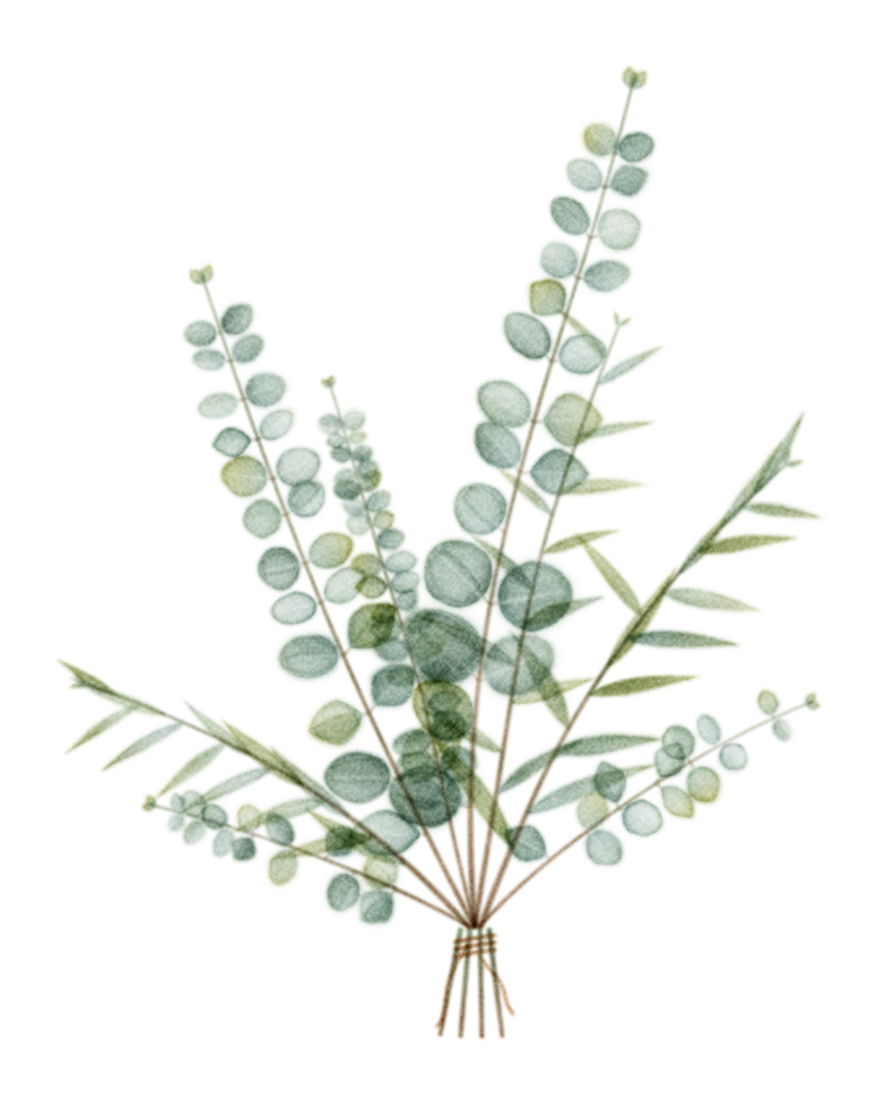
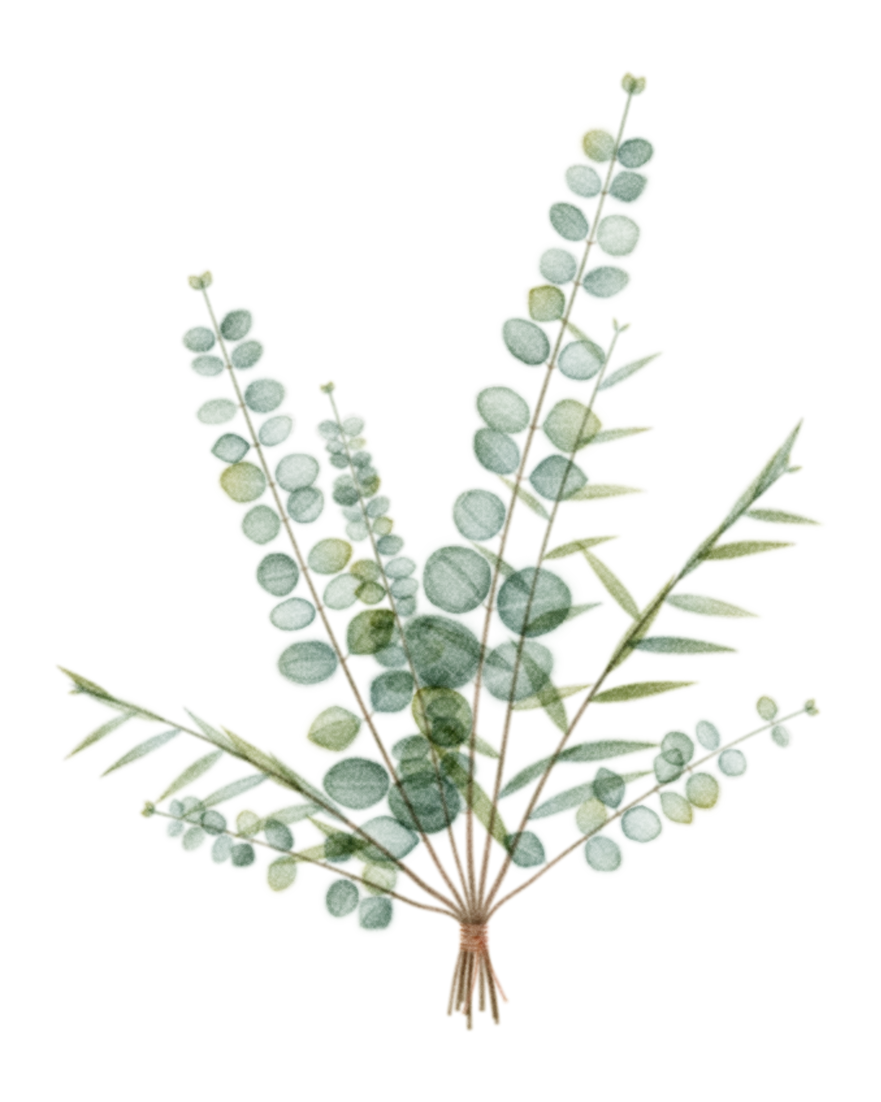
Repaint the bouquet's base as a realistic hand-tied bunch
The stems used to meet at a single point above three thin lines of twine,
with four stubs below. Now every stem passes through a tied waist: six
turns of copper twine with a knot and two loose ends, and below it all
eight stems splay a little to cut ends of their own lengths.

Everything above the tie paints exactly as before: the generator keeps
the branches' random stream unchanged, and the old and new paintings
differ by under 1/255 above the join. The image is now 881x1102, so the
<img> sizes on Home and About (and the portrait-swap note) are updated.

Changed region(s): [[0.0613, 0.0617, 0.9501, 0.9564], [0.0613, 0.6788, 0.0919, 0.7096]]

diff --git a/about.html b/about.html
@@ -62,7 +62,7 @@
         <figure class="portrait">
           <!-- PORTRAIT: this botanical print is a placeholder. To use Tessa's photo, see "Add your portrait" in TESSA-START-HERE.md. -->
           <div class="portrait__frame">
-            <img src="assets/img/botanical-bouquet.webp" alt="" width="883" height="1103" fetchpriority="high">
+            <img src="assets/img/botanical-bouquet.webp" alt="" width="881" height="1102" fetchpriority="high">
           </div>
         </figure>
         <div class="story__body">

diff --git a/index.html b/index.html
@@ -101,7 +101,7 @@
         <figure class="portrait">
           <!-- PORTRAIT: this botanical print is a placeholder. To use Tessa's photo, see "Add your portrait" in TESSA-START-HERE.md. -->
           <div class="portrait__frame">
-            <img src="assets/img/botanical-bouquet.webp" alt="" width="883" height="1103" fetchpriority="high">
+            <img src="assets/img/botanical-bouquet.webp" alt="" width="881" height="1102" fetchpriority="high">
           </div>
         </figure>
       </div>

diff --git a/tools/generate-botanicals.py b/tools/generate-botanicals.py
@@ -360,13 +360,16 @@ class Painter:
 
     def branch(self, start, heading, length, kind="round", curl=0.0, droop=0.0, size=60.0,
                stem_w=(5.0, 1.4), strength=0.55, skip=0.1, pods=0, berries=0, glaze=0.3,
-               pencil=0.0, start_u=None, pairs=None, sag=0.0):
+               pencil=0.0, start_u=None, pairs=None, sag=0.0, root=None):
         """A eucalyptus stem with leaves.
 
         kind: "round" (silver-dollar pairs), "baby" (small round leaves),
         "willow" (alternate narrow leaves) or "seeded" (narrow leaves + seed cups).
         heading: degrees, 0 = right, 90 = down. curl: total degrees of clockwise turn.
         sag: how strongly the stem bends down under its own weight (0-1).
+        root: optional function that takes the stem's path and returns the path
+        to paint instead, e.g. to run the stem down through a tied bundle. It
+        must not use self.rng, so the leaves paint exactly as without it.
         """
         rng = self.rng
         u_ = self.u
@@ -382,7 +385,7 @@ class Painter:
                 a = toward(a, math.pi / 2, sag * 2.2 / n)
             pts.append(pts[-1] + step * np.array([math.cos(a), math.sin(a)], np.float32))
         pts = np.array(pts)
-        self.stem(pts, *stem_w)
+        self.stem(root(pts) if root is not None else pts, *stem_w)
 
         def tangent(i):
             i = min(max(i, 1), len(pts) - 2)
@@ -467,24 +470,67 @@ class Painter:
                       edge=0.6, shade=0.1, vein=0.0, pencil=pencil * 0.6)
         return pts
 
-    def twine(self, center, spread):
-        """Copper twine wrapped around a bundle of stems, with two loose ends."""
+    def twine(self, center, radius, wraps=5, pitch=3.9):
+        """Copper twine wound tightly round a bundle of stems, knotted at the
+        front, with two loose ends. The stems are lifted under each turn first,
+        so the twine reads as lying on top of them."""
         rng = self.rng
-        cx, cy = center
         u = self.u
-        for k in range(3):
-            y = cy + (k - 1) * 7 * u + rng.normal(0, 0.8)
-            wrap = np.array([[cx - spread, y + 3 * u], [cx, y - 1.5 * u], [cx + spread, y - 4 * u]], np.float32)
-            curve = np.array([wrap[0] * (1 - s) ** 2 + 2 * wrap[1] * s * (1 - s) + wrap[2] * s ** 2
-                              for s in np.linspace(0, 1, 24)], np.float32)
-            self.line(curve, 3.0 * u, "copper", 0.75)
-        for direction in (-1, 1):
-            pts = []
-            for s in np.linspace(0, 1, 40):
-                x = cx + direction * (6 + 38 * s) * u + direction * 6 * u * math.sin(s * 5)
-                y = cy + 6 * u + 70 * s * u + 8 * u * math.sin(s * 3.5 + direction)
-                pts.append((x, y))
-            self.line(np.array(pts, np.float32), 2.4 * u, "copper", 0.6)
+        cx, cy = center
+        r, pitch = radius * u, pitch * u
+        top = cy - wraps * pitch / 2
+        xs = np.linspace(-r, r, 28, dtype=np.float32)
+        front = np.sqrt(np.clip(1 - (xs / r) ** 2, 0, 1))
+        turns = []
+        for k in range(wraps):
+            # Seen from slightly above, each turn dips at the front of the
+            # bundle and climbs gently round it, and narrows where it turns away.
+            mid = top + (k + 0.5) * pitch + 0.09 * xs + 1.4 * u * (front - 0.6) + rng.normal(0, 0.25 * u)
+            half = 0.46 * pitch * (0.72 + 0.28 * front)
+            spine = np.stack([cx + xs, mid], 1)
+            outline = np.concatenate([np.stack([cx + xs, mid - half], 1),
+                                      np.stack([cx + xs, mid + half], 1)[::-1]])
+            turns.append((outline, spine))
+
+        for outline, _ in turns:
+            self.lift_under(fill_path, outline, 0.85)
+        for outline, spine in turns:
+            # The lifted line along each turn is its highlight, so it reads as cord.
+            self.wash(outline, (spine[0], spine[-1]), pitch, ("copper", "terracotta"), rng.uniform(0.4, 0.5),
+                      edge=0.9, shade=0.3, vein_line=spine - np.array([0, 0.3 * pitch], np.float32),
+                      vein=0.5, grain=0.5, soften=0.5)
+
+        knot = np.array([cx + 0.3 * r, top + 0.55 * wraps * pitch], np.float32)
+        # Two loose ends: one falls away to the right, clear of the stems; the
+        # other hangs in front of them. Each has frayed fibres at its tip.
+        for reach, fall, sway in ((26, 56, 1.8), (-13, 68, 2.4)):
+            s = np.linspace(0, 1, 40, dtype=np.float32)
+            x = knot[0] + reach * u * (0.7 * s + 0.3 * s ** 2) + sway * u * np.sin(3.2 * s)
+            y = knot[1] + 2 * u + fall * u * s
+            end = np.stack([x, y], 1)
+            self.lift_under(lambda pts: stroke_path(pts, 3.2 * u), end, 0.75)
+            self.stem(end, 3.1, 2.1, pigments=("copper", "terracotta"), strength=0.58)
+            tip, d = end[-1], end[-1] - end[-4]
+            a = math.atan2(d[1], d[0])
+            for spread in (-0.35, 0.05, 0.4):
+                fibre = rng.uniform(3.5, 6) * u
+                self.line(np.stack([tip, tip + fibre * np.array([math.cos(a + spread), math.sin(a + spread)],
+                                                                np.float32)]), 0.7 * u, "copper", 0.4)
+        for dx, dy, rx, ry, rot in ((0, 0, 5.6, 4.3, 0.5), (3.4, 2.9, 4.1, 3.3, -0.4)):
+            c = knot + np.array([dx, dy], np.float32) * u
+            body = self.ellipse(c, rx * u, ry * u, rot)
+            self.lift_under(fill_path, body, 0.7)
+            self.wash(body, (c - [rx * u, 0], c + [rx * u, 0]), 2 * rx * u, ("copper", "terracotta"), 0.62,
+                      edge=1.0, shade=0.35, grain=0.5, soften=0.5)
+
+    def lift_under(self, shape, pts, amount):
+        """Lift pigment under a shape before painting it, so it reads as lying
+        on top. `shape` is fill_path or a stroke_path-like function of points."""
+        pts = np.asarray(pts, np.float32)
+        x0, y0, x1, y1 = self._bounds(pts, 6 * self.u)
+        off = np.array([x0 - self.m, y0 - self.m], np.float32)
+        cover = blur(raster(shape(pts - off), x1 - x0, y1 - y0), 0.6 * self.u)
+        self.D[y0:y1, x0:x1] *= (1 - amount * cover)[..., None]
 
     # -- output ---------------------------------------------------------------
 
@@ -539,27 +585,95 @@ class Painter:
 
 # Compositions -------------------------------------------------------------------
 
+def _bezier(p0, p1, p2, p3, step):
+    n = max(4, int(np.hypot(*(p3 - p0)) / step))
+    s = np.linspace(0, 1, n, dtype=np.float32)[:, None]
+    return (1 - s) ** 3 * p0 + 3 * (1 - s) ** 2 * s * p1 + 3 * (1 - s) * s ** 2 * p2 + s ** 3 * p3
+
+
+def tied_bundle(stems, tie, scale, waist=9.0, band=22.0):
+    """A hand-tied bunch: every stem passes through the tie in its own place.
+
+    Above the twine each stem flares out to its branch; below, it splays a
+    little to a cut end of its own length. Returns (roots, ends): `roots` for
+    Painter.branch(root=...), and the stem ends below the tie as
+    (path, widths) to paint after the branches. The two halves meet under
+    the twine, which hides the join. Uses its own random numbers, so the
+    branches' leaves paint exactly as they would without it.
+    """
+    rng = np.random.default_rng(1011)
+    step = 2.5 * scale
+    order = np.argsort([heading for _, heading, *_ in stems], kind="stable")
+    slots = np.linspace(-waist, waist, len(stems)) * scale
+    neck_y = tie[1] - (0.5 * band - 2) * scale  # just inside the twine's top edge
+    roots, ends = [None] * len(stems), [None] * len(stems)
+    for place, i in enumerate(order):
+        _, heading, length, _, options = stems[i]
+        lean = heading + 90  # degrees from upright; negative leans left
+        x = tie[0] + slots[place]
+        middle = np.array([x, tie[1]], np.float32)
+
+        # Below the tie: nearly straight, bowed a touch outward, cut at its own length.
+        down = math.radians(90 - 0.22 * lean + rng.normal(0, 2.5))
+        sink = np.array([math.cos(down), math.sin(down)], np.float32)
+        cut = middle + rng.uniform(62, 92) * scale * sink
+        outward = np.array([-sink[1], sink[0]], np.float32)
+        if outward[0] * lean < 0:
+            outward = -outward
+        s = np.linspace(0, 1, max(4, int(np.hypot(*(middle - cut)) / step)), dtype=np.float32)[:, None]
+        w0 = options.get("stem_w", (5.0, 1.4))[0]
+        ends[i] = (middle + s * (cut - middle) + 1.5 * scale * np.sin(np.pi * s) * outward, (0.9 * w0, 0.95 * w0))
+
+        # Above the tie: up out of the twine, then curving into the branch below its first leaves.
+        join = 0.8 * options.get("start_u", 0.1) * length * scale
+        roots[i] = _tied_root(middle, np.array([x, neck_y], np.float32), lean, join, step)
+    return roots, ends
+
+
+def _tied_root(middle, neck, lean, join, step):
+    rise = math.radians(-90 + 0.6 * lean)
+    rise = np.array([math.cos(rise), math.sin(rise)], np.float32)
+
+    def root(pts):
+        along = np.concatenate([[0], np.cumsum(np.hypot(*np.diff(pts, axis=0).T))])
+        k = int(np.clip(np.searchsorted(along, join), 2, len(pts) - 3))
+        tangent = pts[k + 1] - pts[k - 1]
+        tangent = tangent / np.linalg.norm(tangent)
+        n = max(3, int(np.hypot(*(neck - middle)) / step))
+        inside = middle + np.linspace(0, 1, n, dtype=np.float32)[:, None] * (neck - middle)
+        span = np.hypot(*(pts[k] - neck))
+        flare = _bezier(neck, neck + 0.4 * span * rise, pts[k] - 0.4 * span * tangent, pts[k], step)
+        return np.concatenate([inside[:-1], flare[:-1], pts[k:]]).astype(np.float32)
+
+    return root
+
+
 def bouquet(scale):
     """A small hand-tied bunch: the placeholder print inside the portrait frame."""
     p = Painter(round(1000 * scale), round(1250 * scale), seed=11, unit=scale)
     c = np.array([500, 1065], np.float32) * scale
-    for dx, ang in ((-14, 101), (-5, 95), (5, 89), (14, 83)):
-        a = math.radians(ang)
-        base = c + np.array([dx * scale, 0])
-        p.stem(np.array([base + s * 110 * scale * np.array([math.cos(a), math.sin(a)]) for s in np.linspace(0, 1, 30)]),
-               4.6, 3.6, pigments=("stem_green", "stem"))
-    kw = dict(pencil=0.14)
-    p.branch(c, -95, 860, "round", curl=18, size=80, start_u=0.14, stem_w=(5.2, 1.4), **kw)
-    p.branch(c, -118, 700, "round", curl=-22, droop=0.1, size=70, start_u=0.15, stem_w=(4.6, 1.3), **kw)
-    p.branch(c + [5 * scale, 0], -70, 560, "willow", curl=8, droop=0.25, size=70, start_u=0.16, sag=0.04, **kw)
-    p.branch(c + [-5 * scale, 0], -132, 460, "willow", curl=-14, droop=0.3, size=62, start_u=0.2, sag=0.05, **kw)
-    p.branch(c, -82, 620, "seeded", curl=10, droop=0.2, size=58, start_u=0.22, **kw)
-    p.branch(c, -104, 560, "baby", curl=-6, size=44, start_u=0.24, stem_w=(3.6, 1.2), **kw)
-    p.branch(c + [3 * scale, 0], -48, 400, "round", curl=22, droop=0.3, size=52, start_u=0.25,
-             stem_w=(3.4, 1.2), **kw)
-    p.branch(c + [-3 * scale, 0], -150, 340, "round", curl=-20, droop=0.3, size=50, start_u=0.25,
-             stem_w=(3.2, 1.2), **kw)
-    p.twine(c + [0, 18 * scale], 20 * scale)
+    # Earlier versions painted four stub stems here first, using 4 x 7 random
+    # numbers. Draw them anyway so every branch above keeps its painting.
+    p.rng.uniform(-1, 1, 4 * 7)
+    stems = [  # (offset from c, heading, length, kind, options)
+        ((0, 0), -95, 860, "round", dict(curl=18, size=80, start_u=0.14, stem_w=(5.2, 1.4))),
+        ((0, 0), -118, 700, "round", dict(curl=-22, droop=0.1, size=70, start_u=0.15, stem_w=(4.6, 1.3))),
+        ((5, 0), -70, 560, "willow", dict(curl=8, droop=0.25, size=70, start_u=0.16, sag=0.04)),
+        ((-5, 0), -132, 460, "willow", dict(curl=-14, droop=0.3, size=62, start_u=0.2, sag=0.05)),
+        ((0, 0), -82, 620, "seeded", dict(curl=10, droop=0.2, size=58, start_u=0.22)),
+        ((0, 0), -104, 560, "baby", dict(curl=-6, size=44, start_u=0.24, stem_w=(3.6, 1.2))),
+        ((3, 0), -48, 400, "round", dict(curl=22, droop=0.3, size=52, start_u=0.25, stem_w=(3.4, 1.2))),
+        ((-3, 0), -150, 340, "round", dict(curl=-20, droop=0.3, size=50, start_u=0.25, stem_w=(3.2, 1.2))),
+    ]
+    tie = c + np.array([0, 4], np.float32) * scale
+    wraps, pitch = 6, 4.6
+    roots, ends = tied_bundle(stems, tie, scale, band=wraps * pitch)
+    for (offset, heading, length, kind, options), root in zip(stems, roots):
+        p.branch(c + np.array(offset, np.float32) * scale, heading, length, kind, pencil=0.14, root=root,
+                 **options)
+    for path, widths in ends:
+        p.stem(path, *widths, pigments=("stem", "pod"), strength=0.68)
+    p.twine(tie, 14, wraps, pitch)
     return p
 
 

diff --git a/TESSA-START-HERE.md b/TESSA-START-HERE.md
@@ -62,7 +62,7 @@ The home page and the About page each have a framed spot for your photo. Until y
 3. In `index.html` and `about.html`, find the comment that starts with `PORTRAIT:`. On the line below it, change
 
    ```html
-   <img src="assets/img/botanical-bouquet.webp" alt="" width="883" height="1103" fetchpriority="high">
+   <img src="assets/img/botanical-bouquet.webp" alt="" width="881" height="1102" fetchpriority="high">
    ```
 
    to
